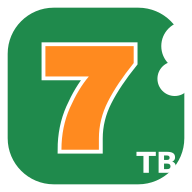
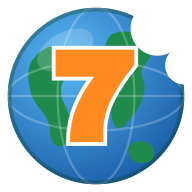
Add files via upload

diff --git a/index.html b/index.html
@@ -144,7 +144,7 @@ stare.insigne = stare.insigne || {}; stare.reactii = stare.reactii || {};
 const salveaza = () => memorie.scrie("stare", stare);
 
 function logo(marime, idUnic) {
-  return `<svg width="${marime}" height="${marime}" viewBox="0 0 100 100" aria-label="Sigla 7 TeraByte"><defs><mask id="m${idUnic}"><rect width="100" height="100" fill="#fff"/><circle cx="97" cy="24" r="13" fill="#000"/><circle cx="91" cy="41" r="9" fill="#000"/><circle cx="99" cy="7" r="9" fill="#000"/></mask></defs><rect x="4" y="4" width="92" height="92" rx="24" fill="#1f8a4c" mask="url(#m${idUnic})"/><text x="45" y="78" text-anchor="middle" font-family="'Archivo Black','Arial Black',Arial,sans-serif" font-weight="900" font-size="74" fill="#ff8a1f" stroke="#fff" stroke-width="4" paint-order="stroke">7</text><text x="71" y="90" font-family="Arial,sans-serif" font-weight="800" font-size="15" fill="#fff">TB</text></svg>`;
+  return `<svg width="${marime}" height="${marime}" viewBox="0 0 100 100" aria-label="Sigla 7 TeraByte"><defs><mask id="b${idUnic}"><rect width="100" height="100" fill="#fff"/><circle cx="82" cy="15" r="14" fill="#000"/><circle cx="96" cy="34" r="10" fill="#000"/></mask><clipPath id="c${idUnic}"><circle cx="50" cy="50" r="46"/></clipPath><radialGradient id="g${idUnic}" cx="35%" cy="30%" r="75%"><stop offset="0" stop-color="#5bb8f5"/><stop offset="1" stop-color="#1a5fa8"/></radialGradient></defs><g mask="url(#b${idUnic})"><circle cx="50" cy="50" r="46" fill="url(#g${idUnic})"/><g clip-path="url(#c${idUnic})" fill="#1f8a4c"><path d="M18 30C24 22 34 22 36 30C38 38 30 42 32 50C34 58 40 62 36 72C32 80 26 76 26 68C26 60 18 56 16 48C14 40 14 34 18 30Z"/><path d="M58 18C66 14 76 18 78 26C80 32 72 34 74 40C78 48 72 58 66 64C62 70 58 66 58 58C58 50 52 46 54 38C56 32 52 24 58 18Z"/><path d="M70 74C76 72 82 76 80 82C78 86 70 86 68 82C66 78 66 76 70 74Z"/></g><g clip-path="url(#c${idUnic})" fill="none" stroke="#fff" stroke-opacity=".22" stroke-width="1.2"><ellipse cx="50" cy="50" rx="20" ry="46"/><line x1="4" y1="50" x2="96" y2="50"/><ellipse cx="50" cy="50" rx="46" ry="18"/></g><ellipse cx="34" cy="26" rx="16" ry="9" fill="#fff" fill-opacity=".18" transform="rotate(-30 34 26)"/><circle cx="50" cy="50" r="45" fill="none" stroke="#0f3d24" stroke-opacity=".35" stroke-width="2"/></g><text x="48" y="74" text-anchor="middle" font-family="'Archivo Black','Arial Black',Arial,sans-serif" font-weight="900" font-size="66" fill="#ff8a1f" stroke="#fff" stroke-width="4" paint-order="stroke">7</text></svg>`;
 }
 
 function actualizeazaAntet() {

diff --git a/sw.js b/sw.js
@@ -1,5 +1,5 @@
 // 7 TeraByte – lucru fără internet. La fiecare actualizare mare, schimbă numărul versiunii.
-const CACHE = "7tb-v1";
+const CACHE = "7tb-v3";
 const FISIERE = ["./", "./index.html", "./trofee.js", "./manifest.json", "./icon.svg", "./icon-192.png", "./icon-512.png"];
 self.addEventListener("install", e => { e.waitUntil(caches.open(CACHE).then(c => c.addAll(FISIERE))); self.skipWaiting(); });
 self.addEventListener("activate", e => { e.waitUntil(caches.keys().then(k => Promise.all(k.filter(x => x !== CACHE).map(x => caches.delete(x))))); self.clients.claim(); });
